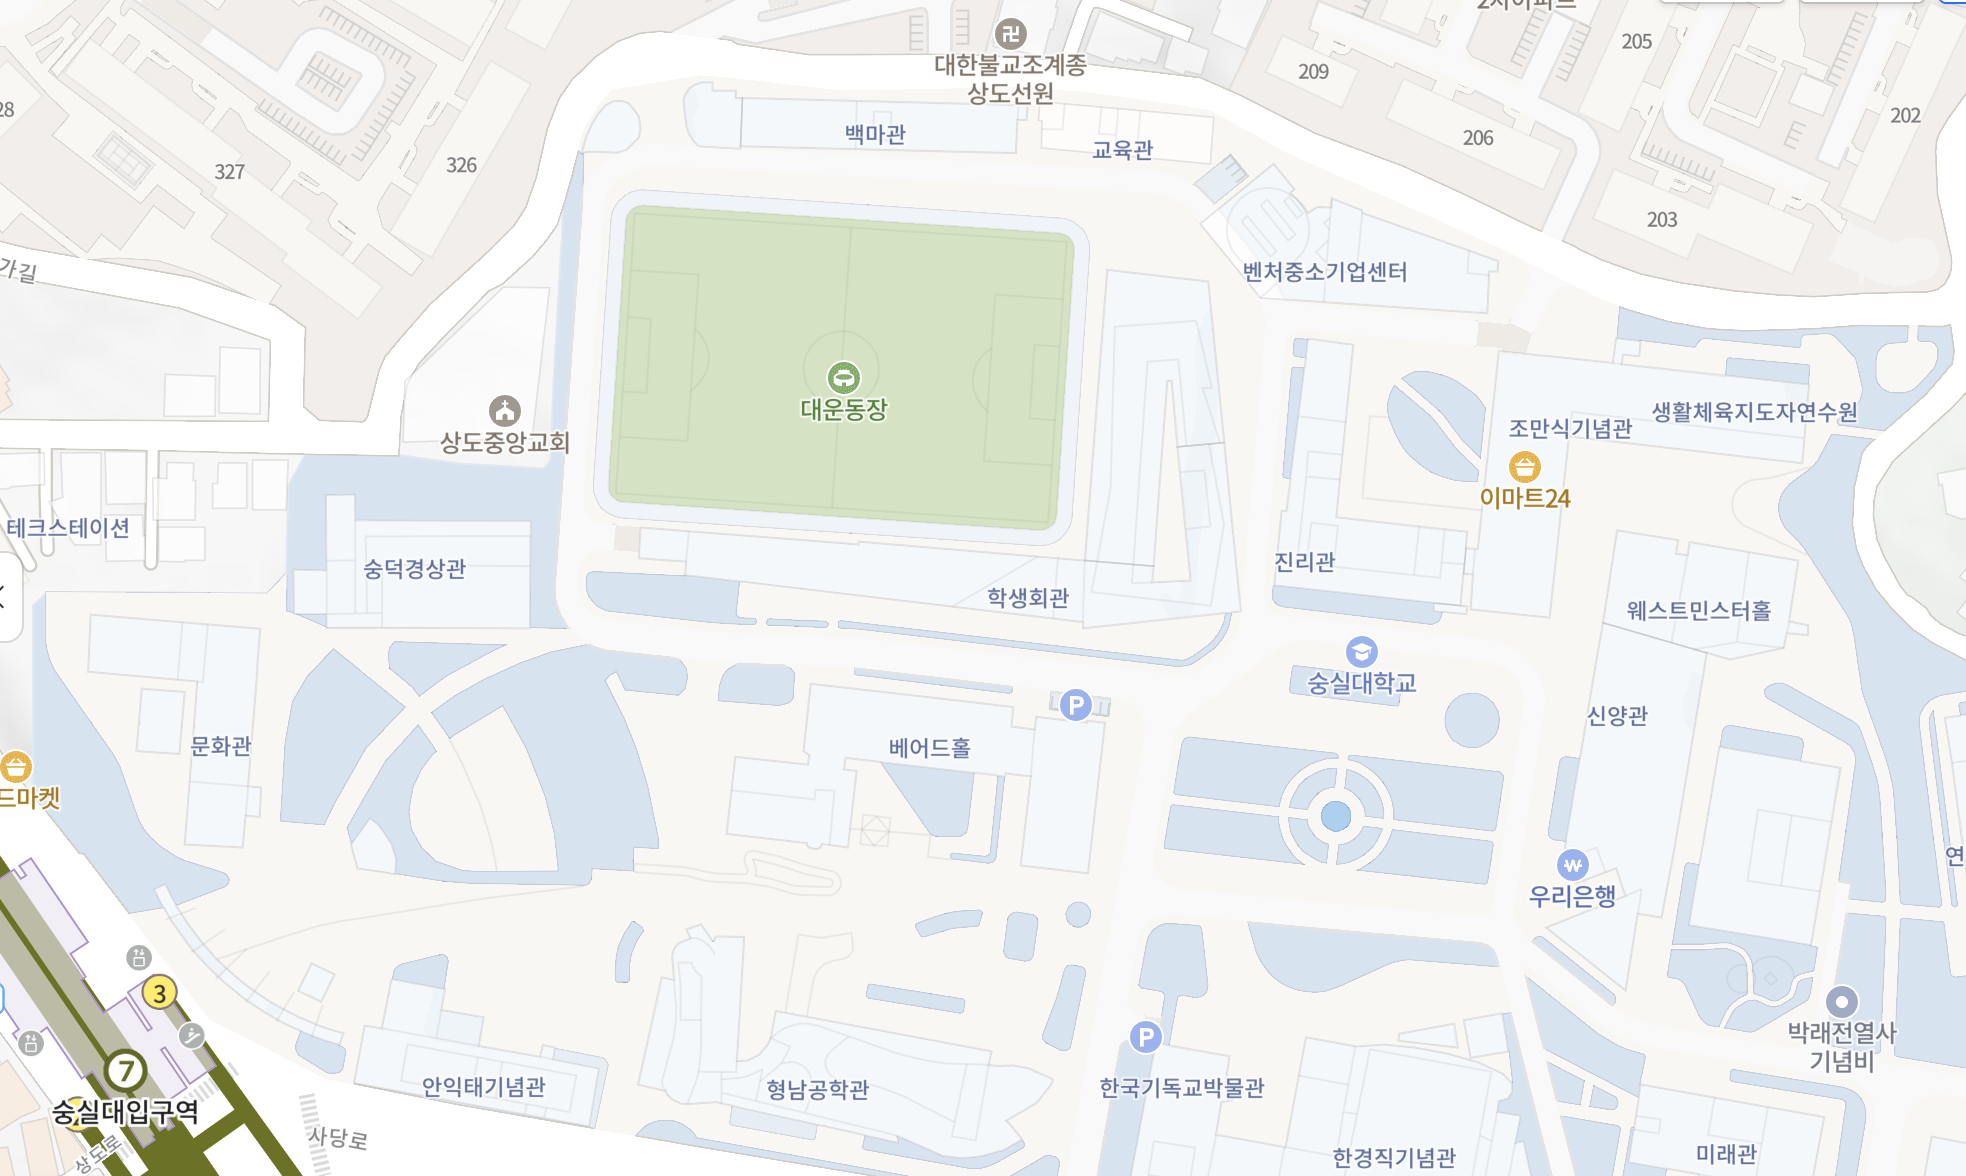
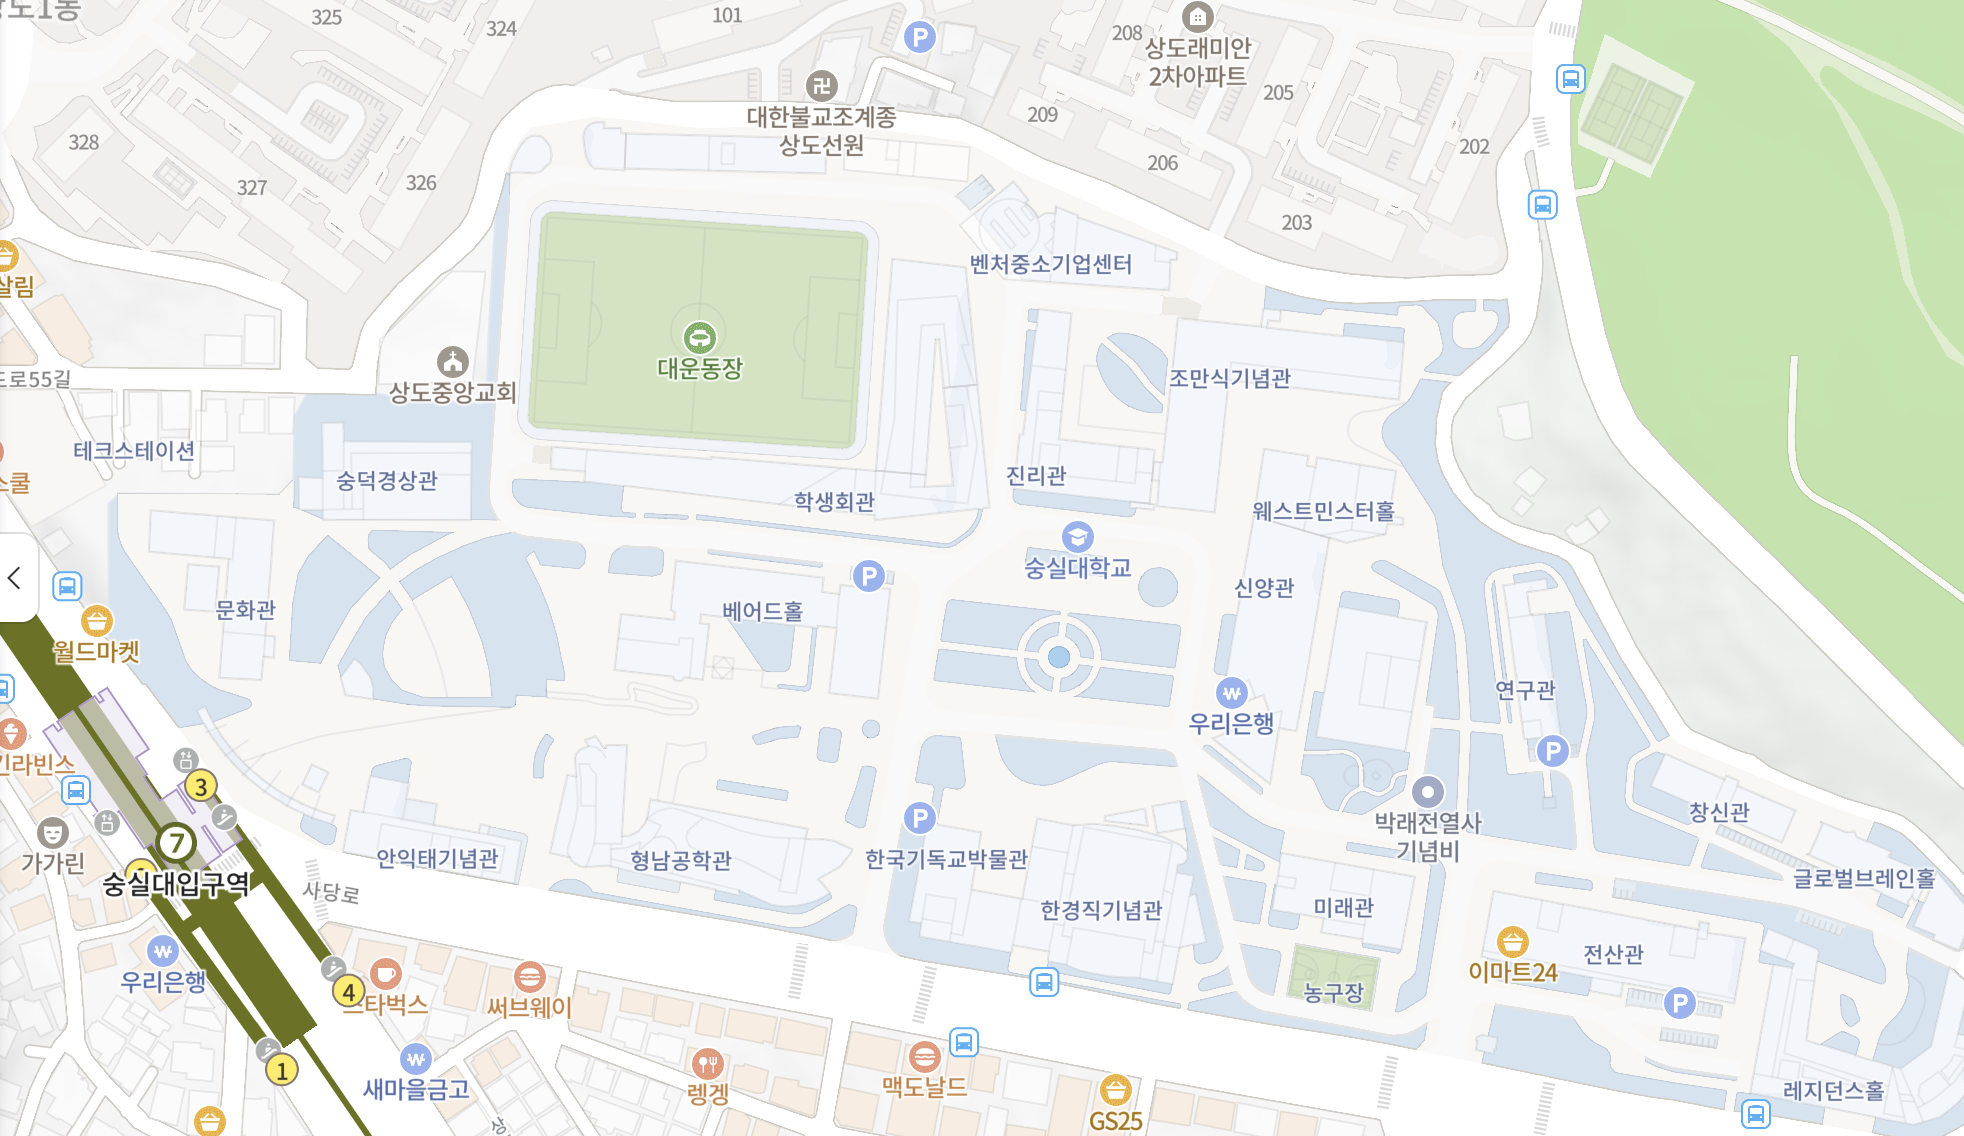
장소 추가

diff --git a/app.js b/app.js
@@ -9,13 +9,19 @@
   var REWARD_POINTS = 100;
   var BASE_COUNT = 12;
 
-  // img/campus_map.png(1966×1176) 기준 핀 끝점 좌표
-  var MAP_W = 1966, MAP_H = 1176;
+  // img/campus_map.png(1964×1136) 픽셀 기준 좌표계
+  var MAP_W = 1964, MAP_H = 1136;
+
+  // 핀 끝점 좌표
+  // dist 는 숭덕경상관 근처에 있다고 가정한 걷는 거리 추정치(지도 1px ≈ 0.32m, 직선거리 + 20%)
   var PLACES = [
-    { id: 'sd', name: '숭덕경상관', dist: '32m', floors: ['1F', '2F', '3F'], pin: { x: 415, y: 548 } },
-    { id: 'ai', name: '안익태기념관', dist: '210m', floors: ['1F', '2F'], pin: { x: 484, y: 1066 } },
-    { id: 'hn', name: '형남공학관', dist: '260m', floors: ['1F', '3F', '5F'], pin: { x: 818, y: 1068 } }
+    { id: 'sd', name: '숭덕경상관', dist: '32m', floors: ['1F', '2F', '3F'], pin: { x: 387, y: 461 } },
+    { id: 'ai', name: '안익태기념관', dist: '150m', floors: ['1F', '2F'], pin: { x: 437, y: 838 } },
+    { id: 'hn', name: '형남공학관', dist: '190m', floors: ['1F', '3F', '5F'], pin: { x: 681, y: 840 } },
+    { id: 'mr', name: '미래관', dist: '400m', floors: ['1F', '2F', '3F', '4F'], pin: { x: 1344, y: 888 } }
   ];
+  // 지도에 처음 들어갈 때 가로 가운데로 올 지점(숭덕경상관·안익태기념관·형남공학관 사이)
+  var START_X = 501;
 
   var CHIPS = [
     { id: 'all', label: '전체' },
@@ -196,7 +202,8 @@
   function mapScreen() {
     var body;
     if (state.mapMode === 'map') {
-      body = '<div class="map__canvas" style="' + (mapView ? viewStyle(mapView) : '') + '"><img src="img/campus_map.png" alt="캠퍼스 지도" draggable="false">' +
+      body = '<div class="map__canvas" style="' + (mapView ? viewStyle(mapView) : '') + '">' +
+          '<img src="img/campus_map.png" alt="캠퍼스 지도" draggable="false">' +
         PLACES.map(function (p) {
           var on = state.sheet === p.id;
           return '<button type="button" class="map__pin' + (on ? ' map__pin--selected' : '') + '" data-action="open-sheet" data-id="' + p.id + '" aria-label="' + p.name + ' 수거대" aria-pressed="' + on + '" style="' + pos(p.pin) + '">' +
@@ -464,7 +471,7 @@
   /* ---------- Map pan / zoom ---------- */
   // 지도 이미지를 translate + scale 로 움직여요. 핀은 --inv 로 역스케일해서 크기 유지.
   // 배율 1 = 지도 높이가 화면을 꽉 채우는 크기(가로로는 넓게 남아서 좌우로 둘러볼 수 있음)
-  var MAX_ZOOM = 2;
+  var MAX_ZOOM = 2.2;
   var mapView = null;          // { x, y, s, bw } — 처음 지도에 들어갈 때 initialView 로 채움
   var pendingFocus = null;     // 다음 렌더 후 부드럽게 이동할 장소 id
 
@@ -477,11 +484,9 @@
     return { w: w, h: w * MAP_H / MAP_W };
   }
 
-  // 세 수거대가 가로 가운데 오도록 시작
   function initialView(vp) {
     var b = baseSize(vp);
-    var avgX = PLACES.reduce(function (sum, p) { return sum + p.pin.x; }, 0) / PLACES.length;
-    return { s: 1, x: vp.clientWidth / 2 - avgX / MAP_W * b.w, y: 0 };
+    return { s: 1, x: vp.clientWidth / 2 - START_X / MAP_W * b.w, y: 0 };
   }
   function clamp(n, lo, hi) { return Math.max(lo, Math.min(hi, n)); }
 
@@ -534,7 +539,7 @@
     // 시트는 화면 맨 아래에 붙어 있으니, 지도에서 보이는 영역은 시트 윗변까지
     var visibleBottom = sheetEl ? app.clientHeight - sheetEl.offsetHeight : m.vp.clientHeight;
     var targetY = (72 + visibleBottom) / 2 + 30;   // 핀 끝이 살짝 아래로 오게
-    var sc = Math.max(mapView.s, 1.4);
+    var sc = Math.max(mapView.s, 1.5);
     var wx = p.pin.x / MAP_W * b.w, wy = p.pin.y / MAP_H * b.h;
     setView({ s: sc, x: W / 2 - wx * sc, y: targetY - wy * sc }, true);
   }
